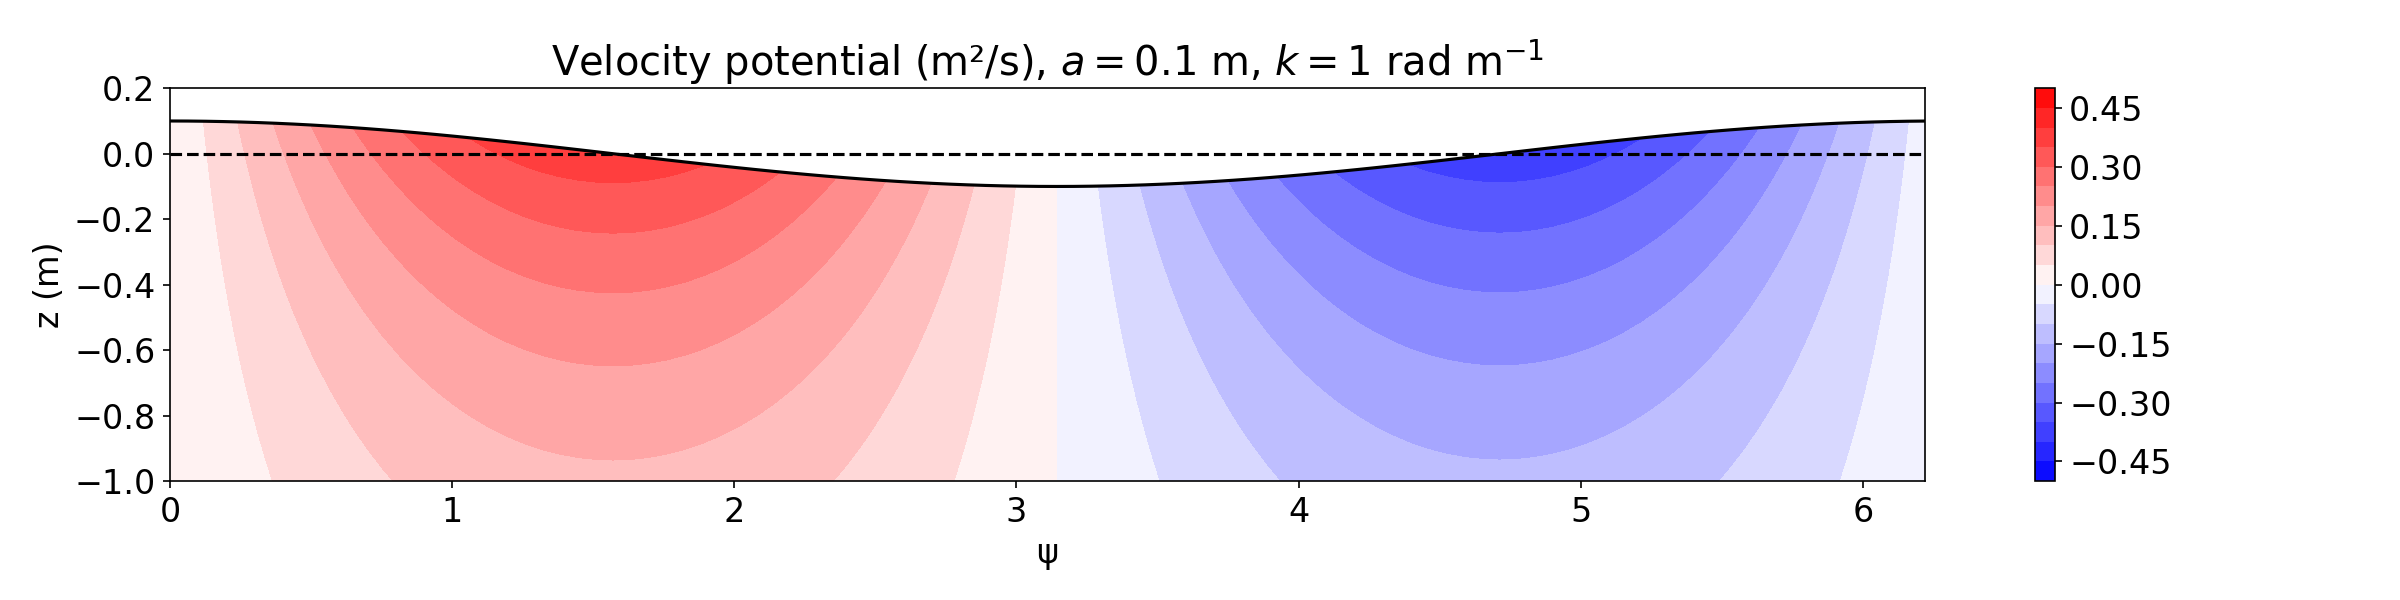
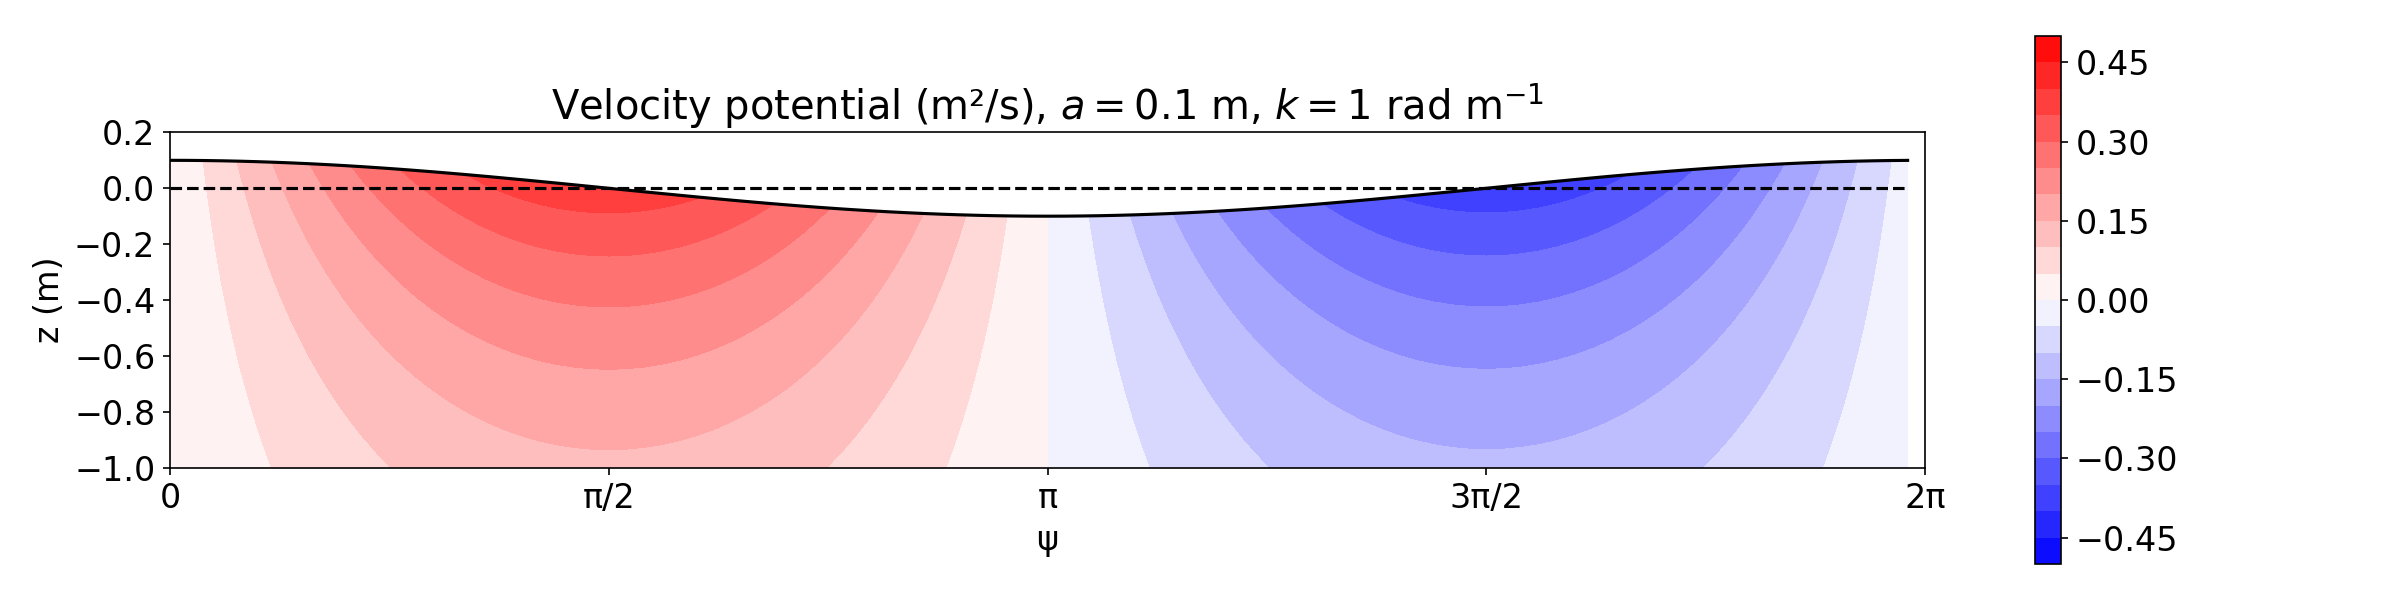
WIP waves

diff --git a/notes.tex b/notes.tex
@@ -5507,6 +5507,7 @@ Fig. \ref{fig:wave_velocities}.
     Wave elevation (black line) and horizontal (top) and vertical (bottom)
     velocities (color) for a linear wave with amplitude $a = 0.1$ m and
     wavenumber $k = 1$ rad m$^{-1}$, in deep water ($h = 100$ m).
+    Thin lines indicate the water particle trajectories.
   }
   \label{fig:wave_velocities}
 \end{figure}
@@ -5517,12 +5518,12 @@ The horizontal and vertical displacements can be obtained by integrating their
 respective velocities over time:
 
 \begin{equation}
-  \zeta = \int u\ dt = a e^{kz} \sin(kx - \omega t)
+  \zeta = \int u\ dt = - a e^{kz} \sin(kx - \omega t)
   \label{eq:wave_horizontal_displacement}
 \end{equation}
 
 \begin{equation}
-  \xi = \int w\ dt = - a e^{kz} \cos(kx - \omega t)
+  \xi = \int w\ dt = a e^{kz} \cos(kx - \omega t)
   \label{eq:wave_vertical_displacement}
 \end{equation}
 The displacements are thus closed orbits when evaluated at any fixed depth $z$.
@@ -5542,7 +5543,112 @@ wave-induced forces on submerged bodies.
 
 \subsubsection{Mean Lagrangian velocity}
 
-It's clear that averaging the instantaneous orbital velocities.
+It's clear that averaging the instantaneous orbital velocities at any given
+fixed depth $z$ over one or more period yields zero.
+However, if we follow the water particles in Lagrangian sense, their average
+horizontal velocity will be non-zero because the particles move forward a larger
+distance than backward over the course of one period.
+This mean Lagrangian velocity is called the
+\textit{Stokes drift}\index{Stokes drift}.
+We can find the expression for this mean residual drift by first recognizing
+that we can approximate the velocity at a particle position $(x+\zeta, z+\xi)$
+to the first order as:
+
+\begin{equation}
+  u(x+\zeta, z+\xi) = u(x,z) +
+  \frac{\partial u}{\partial x} \zeta +
+  \frac{\partial u}{\partial z} \xi \\
+\end{equation}
+
+\begin{equation}
+  u(x+\zeta, z+\xi) = u(x,z) +
+  a^2 \omega k e^{2kz} \sin^2(kx - \omega t) + a^2 \omega k e^{2kz} \cos^2(kx - \omega t)
+\end{equation}
+
+\begin{equation}
+  u(x+\zeta, z+\xi) = u(x,z) + a^2 \omega k e^{2kz}
+\end{equation}
+The Stokes drift can then be obtained by averaging this material velocity over
+one period:
+
+\begin{equation}
+  u_{St} = \frac{1}{T} \int_0^T u(x+\zeta, z+\xi)\ dt = a^2 \omega k e^{2kz}
+\end{equation}
+It can be easily shown by following the same procedure for the vertical velocity
+that the vertical Stokes drift is zero.
+
+\subsubsection{Wave groups}
+
+Waves if a given wavenumber and frequency are rarely alone and in reality the
+ocean surface is densely populated by a spectrum of waves with different
+wavenumbers and frequencies.
+The simplest case of this is if we considered two waves and their resulting
+elevation:
+
+\begin{equation}
+  \eta = \eta_1 + \eta_2 = a \cos(k_1 x - \omega_1 t) + a \cos(k_2 x - \omega_2 t)
+  \label{eq:wave_group_elevation}
+\end{equation}
+Superposing two waves with different wavenumbers leads to the formation
+of wave groups (Fig. \ref{fig:wave_group}).
+
+\begin{figure}[h]
+  \centering
+  \includegraphics[width=\textwidth]{assets/fig_wave_group.png}
+  \caption{
+    Superposition of two waves with wavenumbers 1 and 1.1 rad/m and amplitudes
+    of 0.1 m.
+  }
+  \label{fig:wave_group}
+\end{figure}
+
+Now, to see at what speed does the wave group propagate, write the wavenumbers
+and frequencies of independent waves as:
+
+\begin{equation}
+  k_1 = k - \frac{\Delta k}{2}
+\end{equation}
+
+\begin{equation}
+  \omega_1 = \omega - \frac{\Delta \omega}{2}
+\end{equation}
+
+\begin{equation}
+  k_2 = k + \frac{\Delta k}{2}
+\end{equation}
+
+\begin{equation}
+  \omega_2 = \omega + \frac{\Delta \omega}{2}
+\end{equation}
+Then, Eq. \ref{eq:wave_group_elevation} can be rewritten as:
+
+\begin{equation}
+  \eta = a \cos \left[ \frac{1}{2} [(k_1 + k_2)x - (\omega_1 + \omega_2)t] \right]
+           \cos \left[ \frac{1}{2} [(k_1 - k_2)x - (\omega_1 - \omega_2)t] \right]
+\end{equation}
+which is equivalent to:
+
+\begin{equation}
+  \eta = a \cos(kx - \omega t) \cos\left[\frac{1}{2} \Delta k \left(x - \frac{\Delta \omega}{\Delta k} t \right) \right]
+\end{equation}
+This form corresponds to individual waves moving with phase speed $C_p = \omega/k$,
+and the envelope moving with the so-called \textit{group speed}:
+
+\begin{equation}
+  C_g = \frac{\Delta \omega}{\Delta k} \approx \frac{\partial \omega}{\partial k}, \text{ for } \Delta k \to 0
+  \label{eq:group_speed}
+\end{equation}
+Notice that the group speed of gravity waves approaches half the phase speed
+in the deep water limit, and is equal to the phase speed in shallow water.
+Group speed of gravity waves is important because it is the advective speed of
+wave energy as well:
+
+\begin{equation}
+  \frac{d E}{dt} = \frac{\partial E}{\partial t} + \nabla \cdot (E \mathbf{C}_g) = 0
+  \label{eq:wave_energy_advection}
+\end{equation}
+This equation is called the wave energy balance and it is the key governing
+equation in most ocean wave prediction models.
 
 \newpage
 \appendix

diff --git a/scripts/wave_velocities.py b/scripts/wave_velocities.py
@@ -25,6 +25,16 @@ def w(a, ω, k, z, ψ):
     return a * ω * np.cosh(k * (z + h)) / np.cosh(k * h) * np.sin(ψ)
 
 
+# Horizontal displacement
+def ζ(a, k, z, ψ):
+    return -a * np.cosh(k * (z + h)) / np.cosh(k * h) * np.sin(ψ)
+
+
+# Vertical displacement
+def ξ(a, k, z, ψ):
+    return a * np.cosh(k * (z + h)) / np.cosh(k * h) * np.cos(ψ)
+
+
 # Angular frequency
 def ω(g, k, h):
     return np.sqrt(g * k * np.tanh(k * h))
@@ -40,40 +50,49 @@ h = 100
 
 ψ_, z_ = np.meshgrid(ψ, z)
 η_ = η(a, ψ_)
-ζ = z_ + η_
+ζ_ = z_ + η_
 
 # Evaluate potential and velocities at z + η
-ϕ_ = ϕ(a, ω(g, k, h), k, ζ, ψ_, g)
-u_ = u(a, ω(g, k, h), k, ζ, ψ_)
-w_ = w(a, ω(g, k, h), k, ζ, ψ_)
+ϕ_ = ϕ(a, ω(g, k, h), k, ζ_, ψ_, g)
+u_ = u(a, ω(g, k, h), k, ζ_, ψ_)
+w_ = w(a, ω(g, k, h), k, ζ_, ψ_)
 
 
 fig, ax = plt.subplots(figsize=(16, 4))
-im = ax.contourf(ψ_, ζ - z.max(), ϕ_, np.arange(-0.5, 0.55, 0.05), cmap=cm.bwr)
+im = ax.contourf(ψ_, ζ_ - z.max(), ϕ_, np.arange(-0.5, 0.55, 0.05), cmap=cm.bwr)
 plt.colorbar(im, ax=ax)
 ax.plot(ψ, η(a, ψ), "k-")
 ax.plot(ψ, 0 * ψ, "k--")
 ax.set_ylim(-1, 0.2)
 ax.set_yticks(np.arange(-1, 0.4, 0.2))
+ax.set_xticks(np.linspace(0, 2 * np.pi, 5))
+ax.set_xticklabels(["0", "π/2", "π", "3π/2", "2π"])
 ax.set_xlabel("ψ")
 ax.set_ylabel("z (m)")
 ax.set_title("Velocity potential (m²/s), $a = 0.1$ m, $k = 1$ rad m$^{-1}$")
+ax.set_aspect("equal")
 plt.tight_layout()
-plt.savefig("fig_wave_potential.png", dpi=150)
+plt.savefig("../assets/fig_wave_potential.png", dpi=150)
 plt.close()
 
 
 fig, (ax1, ax2) = plt.subplots(2, 1, figsize=(16, 8))
 
-im1 = ax1.contourf(ψ_, ζ - z.max(), u_, np.arange(-0.5, 0.55, 0.05), cmap=cm.bwr)
+im1 = ax1.contourf(ψ_, ζ_ - z.max(), u_, np.arange(-0.5, 0.55, 0.05), cmap=cm.bwr)
 plt.colorbar(im1, ax=ax1)
 ax1.plot(ψ, η(a, ψ), "k-")
+for xx in np.arange(np.pi / 4, 2 * np.pi, np.pi / 4) / k:
+    for zz in np.arange(-0.8, -0, 0.2):
+        ax1.plot(xx + ζ(a, k, zz, ψ), zz + ξ(a, k, zz, ψ), "k-", alpha=0.6)
 ax1.plot(ψ, 0 * ψ, "k--")
 ax1.set_title("Horizontal velocity (m/s), $a = 0.1$ m, $k = 1$ rad m$^{-1}$")
 
-im2 = ax2.contourf(ψ_, ζ - z.max(), w_, np.arange(-0.5, 0.55, 0.05), cmap=cm.bwr)
+im2 = ax2.contourf(ψ_, ζ_ - z.max(), w_, np.arange(-0.5, 0.55, 0.05), cmap=cm.bwr)
 plt.colorbar(im2, ax=ax2)
 ax2.plot(ψ, η(a, ψ), "k-")
+for xx in np.arange(np.pi / 4, 2 * np.pi, np.pi / 4) / k:
+    for zz in np.arange(-0.8, -0, 0.2):
+        ax2.plot(xx + ζ(a, k, zz, ψ), zz + ξ(a, k, zz, ψ), "k-", alpha=0.6)
 ax2.plot(ψ, 0 * ψ, "k--")
 ax2.set_title("Vertical velocity (m/s), $a = 0.1$ m, $k = 1$ rad m$^{-1}$")
 
@@ -82,7 +101,10 @@ for ax in [ax1, ax2]:
     ax.set_yticks(np.arange(-1, 0.4, 0.2))
     ax.set_xlabel("ψ")
     ax.set_ylabel("z (m)")
+    ax.set_xticks(np.linspace(0, 2 * np.pi, 5))
+    ax.set_xticklabels(["0", "π/2", "π", "3π/2", "2π"])
+    ax.set_aspect("equal")
 
 plt.tight_layout()
-plt.savefig("fig_wave_velocities.png", dpi=150)
+plt.savefig("../assets/fig_wave_velocities.png", dpi=150)
 plt.close()

diff --git a/scripts/wave_dispersion.py b/scripts/wave_dispersion.py
@@ -4,9 +4,11 @@ import numpy as np
 
 plt.rcParams["font.size"] = 16
 
+
 # Angular frequency
 def ω(g, k, h):
     return np.sqrt(g * k * np.tanh(k * h))
+
 
 g = 9.8
 k = np.linspace(1e-2, 1e2, 1000)
